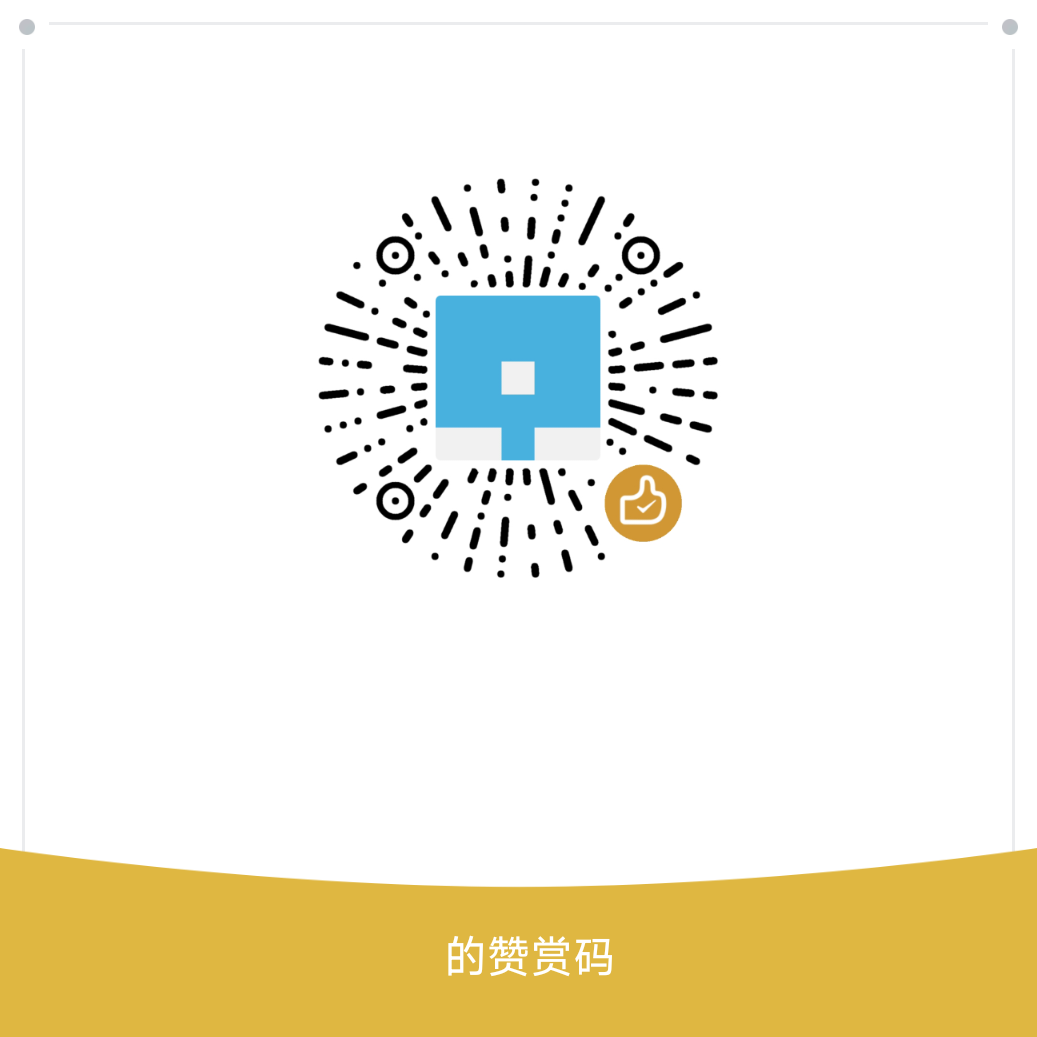
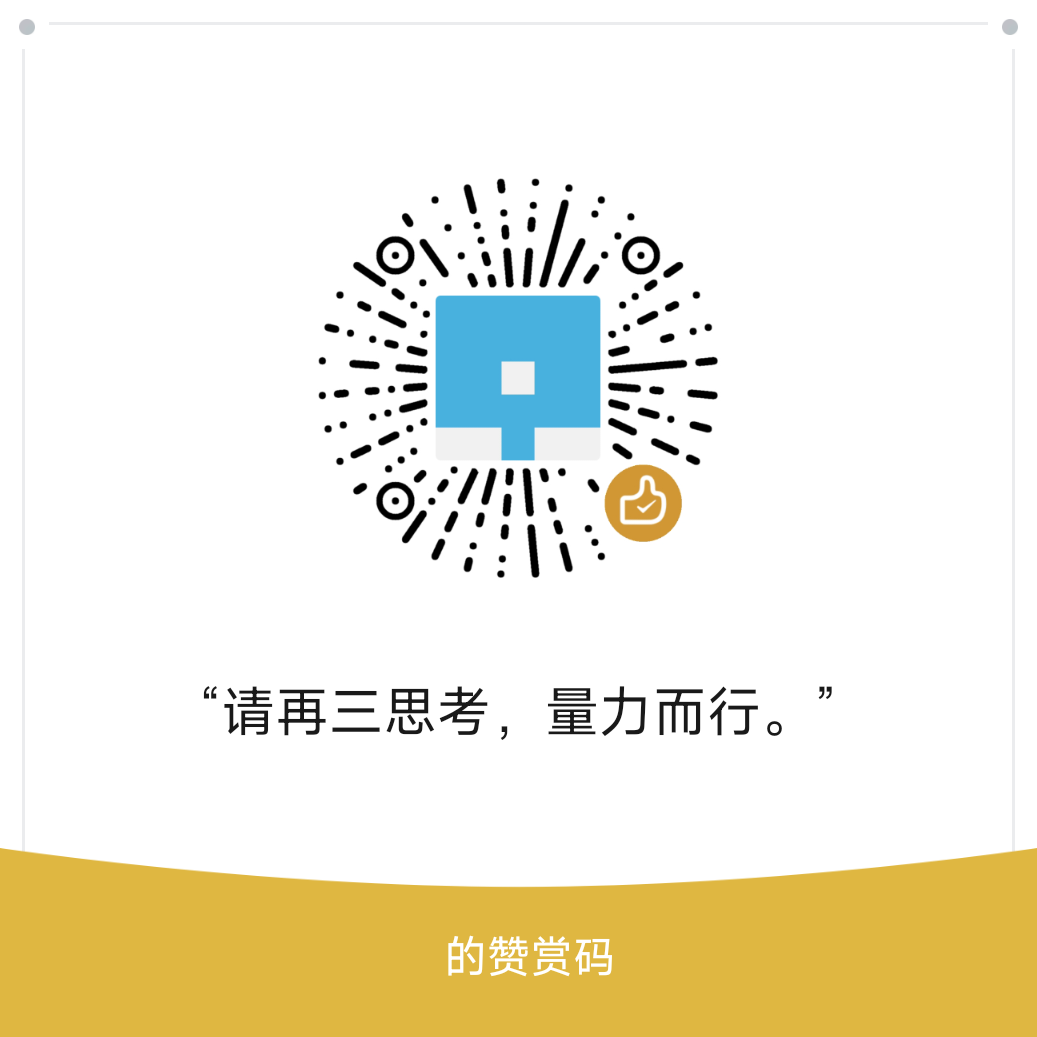
docs: update donation QR (with motto)

diff --git a/README.en.md b/README.en.md
@@ -69,4 +69,6 @@ The bundled build includes the unmodified FBNeo binary from the libretro buildbo
 
 <img src="docs/donate.png" alt="WeChat reward QR" width="260">
 
+“Think carefully and give within your means.”
+
 Voluntary donations only. Non-refundable, and no special privileges are given in return.

diff --git a/README.md b/README.md
@@ -87,4 +87,6 @@ build.sh                         一键构建
 
 <img src="docs/donate.png" alt="微信赞赏码" width="260">
 
+“请再三思考，量力而行。”
+
 仅作为无偿捐赠，捐赠后无法退款，捐赠后不会有任何特殊特权。
